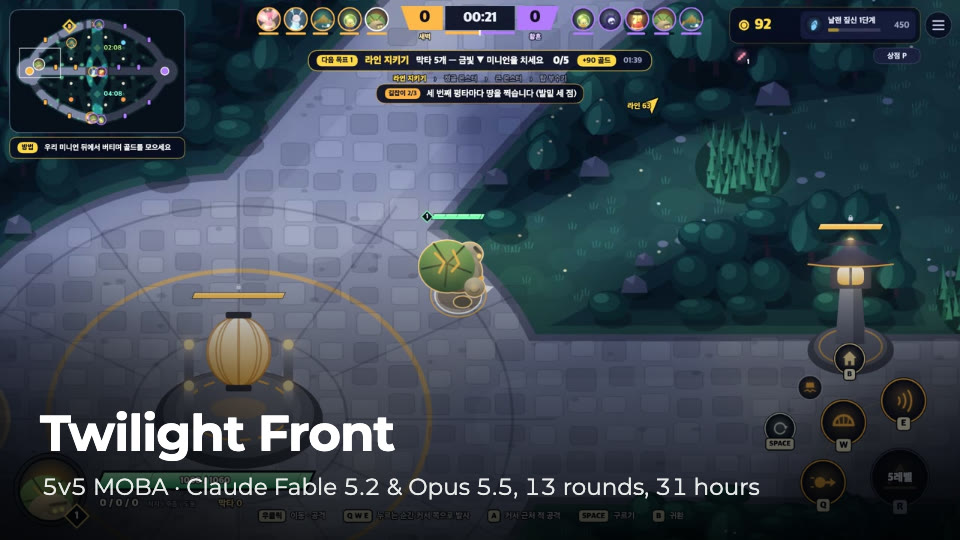
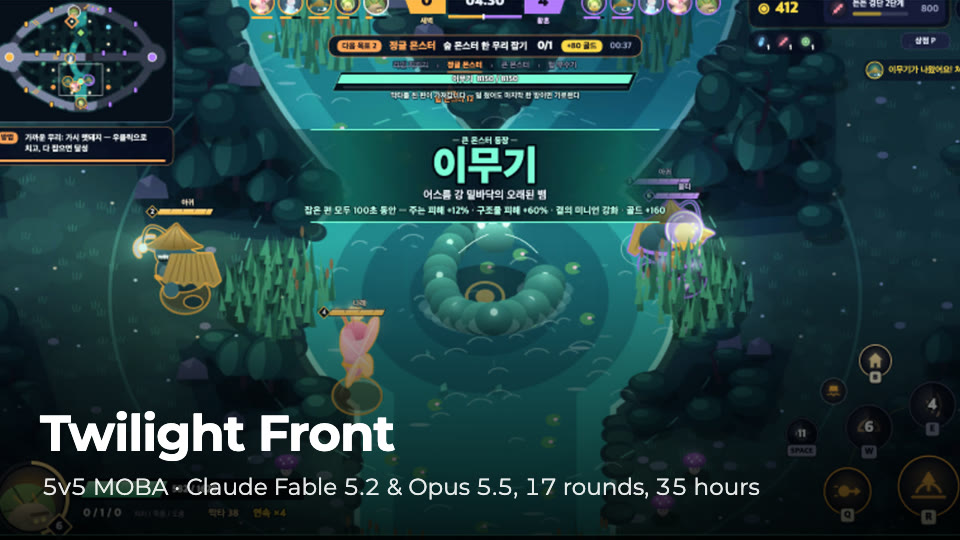
docs(profile): 어스름 전선 17차로 타일 교체, 새 PR 4개와 머지 반영, 현황판 갱신 (2026-11-24)

diff --git a/README.en.md b/README.en.md
@@ -40,7 +40,7 @@ I ask an AI for a game in a few lines, play what it builds, and post the result 
   <a href="https://wonjangcloud9.github.io/ai-game-battle/ep02/"><img src="./assets/games/tile-aurora-fall-2.en.jpg" width="49%" alt="Aurora Fall 2, a 3D battle royale"></a>
   <a href="https://wonjangcloud9.github.io/ai-game-battle/ep03/claude/"><img src="./assets/games/tile-sundrift-gp.en.jpg" width="49%" alt="Sundrift GP, 3D kart racing"></a>
   <a href="https://wonjangcloud9.github.io/ai-game-battle/ep04/"><img src="./assets/games/tile-lens-answer.en.jpg" width="49%" alt="The Answer in the Lens, an exam with AI glasses"></a>
-  <a href="https://wonjangcloud9.github.io/ai-game-battle/ep05/v13/"><img src="./assets/games/tile-twilight-front.en.jpg" width="49%" alt="Twilight Front, a 5v5 MOBA"></a>
+  <a href="https://wonjangcloud9.github.io/ai-game-battle/ep05/v17/"><img src="./assets/games/tile-twilight-front.en.jpg" width="49%" alt="Twilight Front, a 5v5 MOBA"></a>
   <a href="https://wonjangcloud9.github.io/ai-game-battle/ep06/v14/"><img src="./assets/games/tile-lantern-keeper.en.jpg" width="49%" alt="The Lantern Keeper, a 2D side-scrolling RPG"></a>
   <a href="https://wonjangcloud9.github.io/ai-game-battle/seoul/"><img src="./assets/games/tile-seoul-632.en.jpg" width="49%" alt="Seoul, 632 years: the city growing in 3D since 1394"></a>
 </p>
@@ -108,8 +108,8 @@ The one I spent longest on is #006, the museum. I built a three-story hall and t
 
 <div align="center">
 <picture>
-  <source media="(prefers-color-scheme: dark)" srcset="./assets/dashboard-dark-c0a28f0573.svg">
-  <img src="./assets/dashboard-light-c0a28f0573.svg" alt="Wonjang Lab dashboard — repos, commits, languages, subjects, open-source contributions" width="100%">
+  <source media="(prefers-color-scheme: dark)" srcset="./assets/dashboard-dark-261a71bae3.svg">
+  <img src="./assets/dashboard-light-261a71bae3.svg" alt="Wonjang Lab dashboard — repos, commits, languages, subjects, open-source contributions" width="100%">
 </picture>
 </div>
 
@@ -119,7 +119,7 @@ The one I spent longest on is #006, the museum. I built a three-story hall and t
 
 <br>
 
-Problems I hit while using a tool, fixed or reported. Many only show up when you work in Korean, such as IME input and Korean captions. 72 pull requests and 14 issues across 30 projects, 23 merged so far.
+Problems I hit while using a tool, fixed or reported. Many only show up when you work in Korean, such as IME input and Korean captions. 76 pull requests and 14 issues across 34 projects, 25 merged so far.
 
 | Project | What it is | Mine |
 |---|---|---|
@@ -128,15 +128,17 @@ Problems I hit while using a tool, fixed or reported. Many only show up when you
 | **[mui-x](https://github.com/mui/mui-x)**<br><sub>★ 5.9k</sub> | MUI's advanced React components (Data Grid, Date Pickers, Charts) | PR&nbsp;3<br>1&nbsp;merged |
 | **[holidays](https://github.com/spatie/holidays)**<br><sub>★ 411</sub> | PHP library that calculates public holidays per country | PR&nbsp;3<br>1&nbsp;merged |
 | **[business-day](https://github.com/kylekatarnls/business-day)**<br><sub>★ 405</sub> | PHP extension that adds business-day and holiday calculations to the Carbon date library | PR&nbsp;2<br>1&nbsp;merged |
-| **[element-plus](https://github.com/element-plus/element-plus)**<br><sub>★ 28k</sub> | UI component library for Vue 3 (TypeScript) | PR&nbsp;1<br>1&nbsp;merged |
+| **[memos](https://github.com/usememos/memos)**<br><sub>★ 65k</sub> | Open-source self-hosted note-taking app that collects your thoughts in a personal timeline (Go) | PR&nbsp;1<br>1&nbsp;merged |
 
 <details>
-<summary><b>24 more projects</b></summary>
+<summary><b>28 more projects</b></summary>
 
 <br>
 
 | Project | What it is | Mine |
 |---|---|---|
+| **[filament](https://github.com/filamentphp/filament)**<br><sub>★ 33k</sub> | Framework for building admin panels and business apps with Laravel (PHP) | PR&nbsp;1<br>1&nbsp;merged |
+| **[element-plus](https://github.com/element-plus/element-plus)**<br><sub>★ 28k</sub> | UI component library for Vue 3 (TypeScript) | PR&nbsp;1<br>1&nbsp;merged |
 | **[countries](https://github.com/mledoze/countries)**<br><sub>★ 6.3k</sub> | World countries data (names, capitals, currencies, translations) in JSON, CSV, XML and YAML | PR&nbsp;1<br>1&nbsp;merged |
 | **[hermes-agent](https://github.com/NousResearch/hermes-agent)**<br><sub>★ 266k</sub> | Autonomous AI agent for the terminal, desktop and chat apps, with a dashboard and an agent-to-agent server (Python) | PR&nbsp;5 |
 | **[validator.js](https://github.com/validatorjs/validator.js)**<br><sub>★ 24k</sub> | String validation library: emails, passport numbers and so on (JavaScript) | PR&nbsp;2 |
@@ -144,7 +146,8 @@ Problems I hit while using a tool, fixed or reported. Many only show up when you
 | **[countries](https://github.com/countries/countries)**<br><sub>★ 2.4k</sub> | Ruby library with ISO country data: codes, currencies and phone number rules (Ruby) | PR&nbsp;2 |
 | **[awesome-claude-plugins](https://github.com/composio-community/awesome-claude-plugins)**<br><sub>★ 2.0k</sub> | Curated list of Claude Code plugins | PR&nbsp;2 |
 | **[bloom](https://github.com/safety-research/bloom)**<br><sub>★ 1.4k</sub> | Pipeline that automatically evaluates how often an LLM shows a given behaviour (Python) | 2&nbsp;issues |
-| **[memos](https://github.com/usememos/memos)**<br><sub>★ 65k</sub> | Open-source self-hosted note-taking app that collects your thoughts in a personal timeline (Go) | PR&nbsp;1 |
+| **[ragflow](https://github.com/infiniflow/ragflow)**<br><sub>★ 95k</sub> | RAG engine that answers from your documents with citations, grown into context infrastructure for agents (Go, TypeScript) | PR&nbsp;1 |
+| **[strapi](https://github.com/strapi/strapi)**<br><sub>★ 74k</sub> | Open-source headless CMS (TypeScript) | PR&nbsp;1 |
 | **[expo](https://github.com/expo/expo)**<br><sub>★ 54k</sub> | Framework and build service for Android, iOS and web apps in React | 1&nbsp;issue |
 | **[date-fns](https://github.com/date-fns/date-fns)**<br><sub>★ 37k</sub> | Date utility library: arithmetic, formatting and parsing, with locales (TypeScript) | PR&nbsp;1 |
 | **[plyr](https://github.com/sampotts/plyr)**<br><sub>★ 30k</sub> | HTML5, YouTube and Vimeo media player (JavaScript) | 1&nbsp;issue |
@@ -152,31 +155,34 @@ Problems I hit while using a tool, fixed or reported. Many only show up when you
 | **[sveltejs/kit](https://github.com/sveltejs/kit)**<br><sub>★ 21k</sub> | Svelte's full-stack web framework: routing, SSR, redirects | PR&nbsp;1 |
 | **[Fuse](https://github.com/krisk/Fuse)**<br><sub>★ 21k</sub> | Lightweight fuzzy-search library (JavaScript) | PR&nbsp;1 |
 | **[faker](https://github.com/joke2k/faker)**<br><sub>★ 20k</sub> | Python library that generates fake test data such as names, addresses and phone numbers, per locale | PR&nbsp;1 |
+| **[learnharness](https://github.com/amosblomqvist/learnharness)**<br><sub>★ 12k</sub> | Agent harness for learning difficult things (TypeScript) | PR&nbsp;1 |
 | **[es-toolkit](https://github.com/toss/es-toolkit)**<br><sub>★ 11k</sub> | Toss's small, fast utility library that replaces lodash (TypeScript) | PR&nbsp;1 |
-| **[learnharness](https://github.com/amosblomqvist/learnharness)**<br><sub>★ 11k</sub> | Agent harness for learning difficult things (TypeScript) | PR&nbsp;1 |
 | **[mimesis](https://github.com/lk-geimfari/mimesis)**<br><sub>★ 4.9k</sub> | Python library that generates fake test data in many locales | PR&nbsp;1 |
 | **[Spoolman](https://github.com/Donkie/Spoolman)**<br><sub>★ 3.1k</sub> | Self-hosted inventory tracker for 3D-printer filament spools (Python) | PR&nbsp;1 |
+| **[Nager.Date](https://github.com/nager/Nager.Date)**<br><sub>★ 1.4k</sub> | Public holidays for 200+ countries as a .NET library and REST API (C#) | PR&nbsp;1 |
 | **[citty](https://github.com/unjs/citty)**<br><sub>★ 1.4k</sub> | Lightweight CLI builder from unjs (Nuxt ecosystem): argument parsing and usage text (TypeScript) | PR&nbsp;1 |
 | **[date-holidays](https://github.com/commenthol/date-holidays)**<br><sub>★ 1.1k</sub> | Library that computes public holidays by country and region, including lunar festivals and substitute-holiday rules (JavaScript) | PR&nbsp;1 |
 | **[phone](https://github.com/AfterShip/phone)**<br><sub>★ 922</sub> | Validates mobile phone numbers and normalizes them to E.164 (TypeScript) | PR&nbsp;1 |
-| **[python-stdnum](https://github.com/arthurdejong/python-stdnum)**<br><sub>★ 609</sub> | Python library that validates hundreds of national and international number formats such as tax IDs, IBANs and ID numbers | PR&nbsp;1 |
+| **[python-stdnum](https://github.com/arthurdejong/python-stdnum)**<br><sub>★ 610</sub> | Python library that validates hundreds of national and international number formats such as tax IDs, IBANs and ID numbers | PR&nbsp;1 |
 | **[definitions](https://github.com/holidays/definitions)**<br><sub>★ 119</sub> | Per-country public holiday definitions in YAML, the data behind the Ruby holidays gem | PR&nbsp;1 |
 
 </details>
 
 **Recently merged**
 
+- [filament #21085](https://github.com/filamentphp/filament/pull/21085) Add missing Korean translations
+- [memos #6616](https://github.com/usememos/memos/pull/6616) chore(i18n): translate the remaining English strings in Korean
 - [mui-x #24295](https://github.com/mui/mui-x/pull/24295) [l10n] Improve Korean (ko-KR) locale
 - [element-plus #25109](https://github.com/element-plus/element-plus/pull/25109) fix(locale): [ko] translate missing strings
 - [business-day #165](https://github.com/kylekatarnls/business-day/pull/165) Add Korean substitute holidays, Labor Day and Constitution Day
-- [faker #4279](https://github.com/faker-js/faker/pull/4279) fix(locale): replace Gwangju and South Jeolla with the Jeonnam-Gwangju special city for ko
-- [hyperframes #8261](https://github.com/heygen-com/hyperframes/pull/8261) docs(skills): give the 9:16 safe band that `check` enforces
 
 <details>
-<summary><b>18 earlier merged pull requests</b></summary>
+<summary><b>20 earlier merged pull requests</b></summary>
 
 <br>
 
+- [faker #4279](https://github.com/faker-js/faker/pull/4279) fix(locale): replace Gwangju and South Jeolla with the Jeonnam-Gwangju special city for ko
+- [hyperframes #8261](https://github.com/heygen-com/hyperframes/pull/8261) docs(skills): give the 9:16 safe band that `check` enforces
 - [countries #613](https://github.com/mledoze/countries/pull/613) Fix Korean translations copied from other countries (IO, DM, GS) and update TR, MN, SO
 - [holidays #359](https://github.com/spatie/holidays/pull/359) Fix Korea's Christmas date (December 25, not 15)
 - [hyperframes #8084](https://github.com/heygen-com/hyperframes/pull/8084) fix(check): a number with a separator counts as one word in line reading time
@@ -199,13 +205,15 @@ Problems I hit while using a tool, fixed or reported. Many only show up when you
 </details>
 
 <details>
-<summary><b>46 pull requests in review</b></summary>
+<summary><b>48 pull requests in review</b></summary>
 
 <br>
 
+- [ragflow #22696](https://github.com/infiniflow/ragflow/pull/22696) i18n(ko): fill in missing Korean translations and sync ko.ts with en.ts
+- [strapi #28771](https://github.com/strapi/strapi/pull/28771) chore(translations): complete Korean (ko) admin translations
+- [Nager.Date #1215](https://github.com/nager/Nager.Date/pull/1215) South Korea: add the substitute holiday for Christmas from 2023
 - [countries #977](https://github.com/countries/countries/pull/977) Update South Korean subdivisions: Gangwon (KR-42), Jeonbuk (KR-45), Sejong (KR-50)
 - [countries #976](https://github.com/countries/countries/pull/976) Allow 10-digit national numbers for South Korea (KR)
-- [memos #6616](https://github.com/usememos/memos/pull/6616) chore(i18n): translate the remaining English strings in Korean
 - [mui-x #24308](https://github.com/mui/mui-x/pull/24308) [l10n][charts] Add Korean (ko-KR) locale
 - [Spoolman #1339](https://github.com/Donkie/Spoolman/pull/1339) Keep the label sort toggle on one line in CJK and Thai
 - [mui-x #24303](https://github.com/mui/mui-x/pull/24303) [l10n][scheduler] Improve Korean (ko-KR) locale
@@ -309,7 +317,7 @@ LangChain and RAG put an LLM in a product for the first time.
 <tr><td align="center"><b>2025</b><br><sub>45 repos</sub><br><sub>852 commits</sub></td><td>
 Five health apps. Late in the year I stopped using other people's agents and <b>started writing my own</b>.
 </td></tr>
-<tr><td align="center"><b>2026</b><br><sub>48 repos</sub><br><sub>4,938 commits</sub></td><td>
+<tr><td align="center"><b>2026</b><br><sub>48 repos</sub><br><sub>4,941 commits</sub></td><td>
 Shipped agent tools to npm and PyPI. In September I opened eight web services in four days with nanika; in October vibing went out on the App Store. In November I had AI build games and opened ten of them, and rebuilt Custo as a CUTIE STREET fan site. <b>My highest-commit year, and it's only November.</b>
 </td></tr>
 </table>
